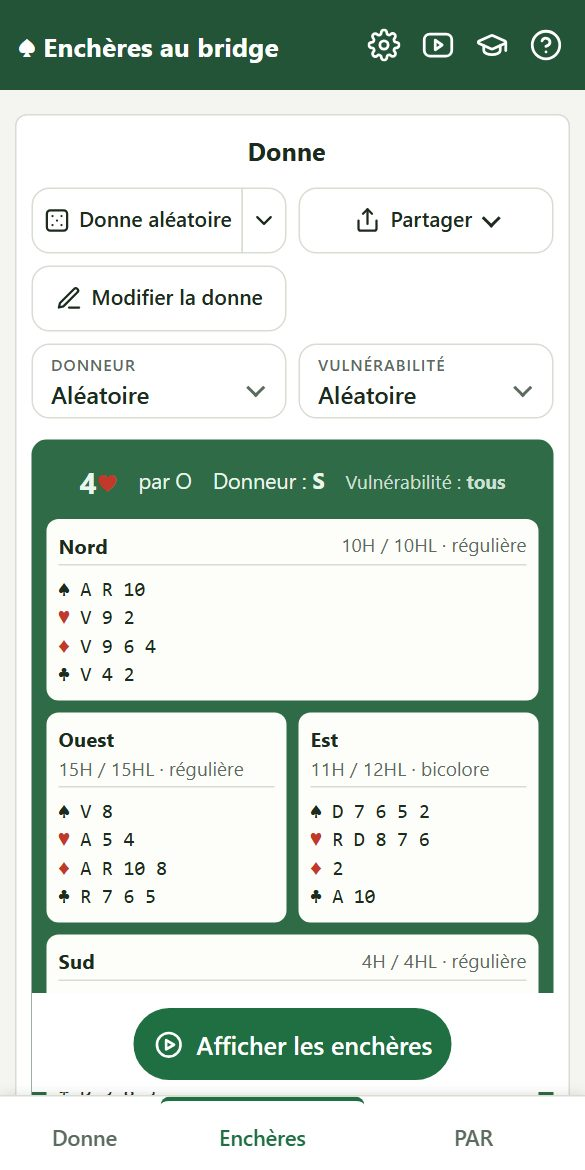
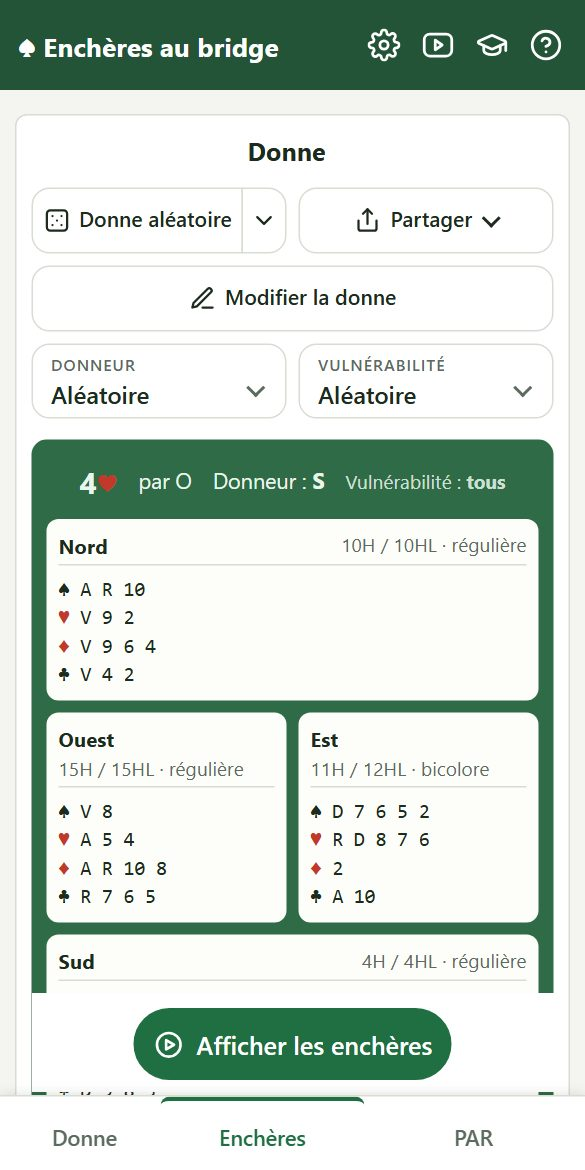
Donne : Modifier la donne sous les deux commandes, trois lignes de même largeur
Les trois commandes de la donne s'alignaient sur une ligne tant que le panneau
les logeait. Modifier la donne passe sous les deux autres, et les trois lignes
du haut du panneau prennent la même largeur :

    [ Donne aléatoire ][ Partager        ]
    [        Modifier la donne           ]
    [ Donneur          ][ Vulnérabilité  ]

C'est la grille qui donne la largeur, plus jamais le contenu : deux colonnes
de largeurs égales sur 520 px, Modifier seule occupant les deux colonnes.

- .deal-cmds passe de la rangée libre à cette grille, et #edit-btn reçoit
  grid-column: 1 / -1 ;
- les deux champs prennent la même grille, sans seuil. C'était le seuil de
  820 px qui les laissait à leur largeur naturelle (398 px) pendant que les
  commandes faisaient 551 px : dans la fenêtre où la page n'a qu'une colonne —
  de 897 à 1099 px — les trois lignes ne s'alignaient donc pas. Les deux
  règles @container disparaissent, et container-type: inline-size avec elles,
  devenu sans objet ;
- la règle .field-group de base, que la grille recouvre entièrement, part
  aussi : son commentaire est repris par celui de la grille.

Captures du tutoriel reprises par tools/tutorial/run.ps1, comme le demande le
README après tout changement visible.

Changed region(s): [[0.0923, 0.2462, 0.6769, 0.2769]]

diff --git a/cli/style.css b/cli/style.css
@@ -312,9 +312,6 @@ main.workspace { max-width: 1440px; }
 /* Un libellé et son champ, insécables : quand la ligne se replie, ils passent
    ensemble à la suivante. */
 .field { display: inline-flex; align-items: center; gap: 8px; }
-/* Les champs d'une même ligne se replient en bloc plutôt qu'un par un, sans
-   quoi le dernier se retrouve seul sous la rangée de boutons. */
-.field-group { display: inline-flex; align-items: center; gap: 12px; flex-wrap: wrap; }
 
 textarea {
   width: 100%;
@@ -451,23 +448,43 @@ button:disabled { opacity: .6; cursor: wait; }
 }
 .cmd-btn svg { width: 21px; height: 21px; }
 
-/* Les commandes de la donne : les trois boutons sur une rangée, Donneur et
-   Vulnérabilité sur la suivante. Chaque champ est une pastille de la hauteur
-   et de l'arrondi des boutons : le libellé à gauche, séparé d'un filet, la
-   valeur à droite avec sa flèche. */
+/* Les commandes de la donne, sur deux lignes : Donne aléatoire et Partager
+   côte à côte, Modifier la donne seule en dessous, puis Donneur et
+   Vulnérabilité. Chaque champ est une pastille de la hauteur et de l'arrondi
+   des boutons : le libellé à gauche, séparé d'un filet, la valeur à droite
+   avec sa flèche. */
 #deal-actions {
   flex-direction: column;
   align-items: center;
   gap: 10px;
-  container-type: inline-size;
 }
-.deal-cmds {
-  display: flex;
-  flex-wrap: wrap;
-  justify-content: center;
-  gap: 10px;
+
+/* Les trois lignes du panneau se lisent d'un bord à l'autre : les deux
+   commandes du haut, Modifier seule, et les deux champs ont la même largeur.
+   Une grille de deux colonnes de largeurs égales les cale l'une sur l'autre —
+   c'est la grille qui donne la largeur, jamais le contenu — ; Modifier, seule
+   sur sa ligne, occupe les deux colonnes. Les deux champs se replient ainsi
+   en bloc plutôt qu'un par un, et ne se séparent jamais au fil des largeurs
+   d'écran. */
+.deal-cmds,
+#deal-actions .field-group {
+  display: grid;
+  grid-template-columns: repeat(2, minmax(0, 1fr));
+  gap: 8px;
+  width: min(100%, 520px);
 }
-#deal-actions .field-group { gap: 10px; justify-content: center; }
+.deal-cmds > .cmd-btn, .deal-cmds > .menu { width: 100%; }
+.deal-cmds > .menu:not(.split-btn) > .cmd-btn { flex: 1; }
+.deal-cmds > .split-btn > .cmd-btn:first-child { flex: 1; min-width: 0; }
+.deal-cmds > .split-btn > .split-caret { flex: none; }
+/* Modifier la donne ferme le bloc : sous les deux commandes, et sur toute
+   leur largeur. */
+#edit-btn { grid-column: 1 / -1; }
+/* Partager tombe dans la colonne de droite : ancré à gauche, son menu
+   débordait de l'écran du téléphone. Il s'aligne sur le bord droit. */
+#share-pop { left: auto; right: 0; }
+#deal-actions .field { min-width: 0; }
+#deal-actions .field select { flex: 1; min-width: 0; }
 #deal-actions .field {
   position: relative;
   gap: 0;
@@ -521,41 +538,6 @@ button:disabled { opacity: .6; cursor: wait; }
   border-width: 0 2px 2px 0;
   transform: rotate(45deg);
   pointer-events: none;
-}
-/* Les trois commandes tiennent sur une ligne tant que le panneau a de quoi
-   les loger : il y faut 551 px de contenu en français — « Donne aléatoire »
-   est le plus long des trois —, 471 px en anglais. En deçà, et sur
-   téléphone, elles passent en grille de deux colonnes de largeurs égales : la
-   dernière reste seule sur la seconde, une troisième colonne serrant « Donne
-   aléatoire » jusqu'à rogner son libellé. */
-@container (max-width: 560px) {
-  .deal-cmds {
-    display: grid;
-    grid-template-columns: repeat(2, minmax(0, 1fr));
-    gap: 8px;
-    width: min(100%, 520px);
-  }
-  .deal-cmds > .cmd-btn, .deal-cmds > .menu { width: 100%; }
-  .deal-cmds > .menu:not(.split-btn) > .cmd-btn { flex: 1; }
-  .deal-cmds > .split-btn > .cmd-btn:first-child { flex: 1; min-width: 0; }
-  .deal-cmds > .split-btn > .split-caret { flex: none; }
-  /* Partager tombe dans la colonne de droite : ancré à gauche, son menu
-     débordait de l'écran du téléphone. Il s'aligne sur le bord droit. */
-  #share-pop { left: auto; right: 0; }
-}
-/* Donneur et Vulnérabilité gardent leur seuil, plus large que celui des
-   commandes : deux champs côte à côte dans une grille de même largeur, pour
-   que les deux rangées du panneau s'alignent ; groupés, ils ne se séparent
-   jamais au fil des largeurs d'écran (voir .field-group). */
-@container (max-width: 820px) {
-  #deal-actions .field-group {
-    display: grid;
-    grid-template-columns: repeat(2, minmax(0, 1fr));
-    gap: 8px;
-    width: min(100%, 520px);
-  }
-  #deal-actions .field { min-width: 0; }
-  #deal-actions .field select { flex: 1; min-width: 0; }
 }
 /* Le dessin garde sa taille quand le bouton se resserre. */
 .deal-cmds .cmd-btn svg { flex: none; }

diff --git a/cli/index.html b/cli/index.html
@@ -267,8 +267,9 @@
         <button id="theme-bar-quit" type="button" class="theme-bar-btn theme-bar-quit"></button>
       </div>
       <div class="row row-centered" id="deal-actions">
-        <!-- Les trois commandes de la donne, sur une rangée (une grille de deux
-             colonnes sur téléphone) ; Donneur et Vulnérabilité en dessous. -->
+        <!-- Les trois commandes de la donne : les deux premières sur une
+             rangée, Modifier la donne en dessous, sur leur largeur ; Donneur
+             et Vulnérabilité sur la troisième ligne, à la même largeur. -->
         <div class="deal-cmds">
           <!-- Barre de commandes à libellés. La donne aléatoire, l'action la plus
                fréquente, est à un clic ; les autres façons d'obtenir une donne
